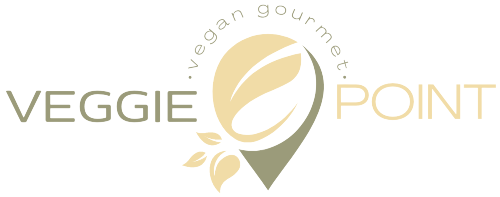
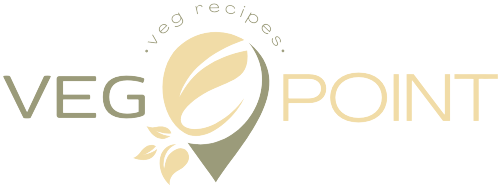
branding improvements

diff --git a/public/index.html b/public/index.html
@@ -19,7 +19,7 @@
       href="https://fonts.googleapis.com/css2?family=Nunito:ital,wght@0,200;0,300;0,400;0,500;0,600;0,700;1,200;1,300;1,400;1,500;1,600;1,700&display=swap"
       rel="stylesheet"
     />
-    <title>Veggie Point | Vegan Gourmet Recipes</title>
+    <title>Veg Point | Green Gourmet Recipes</title>
   </head>
   <body>
     <div id="root"></div>
